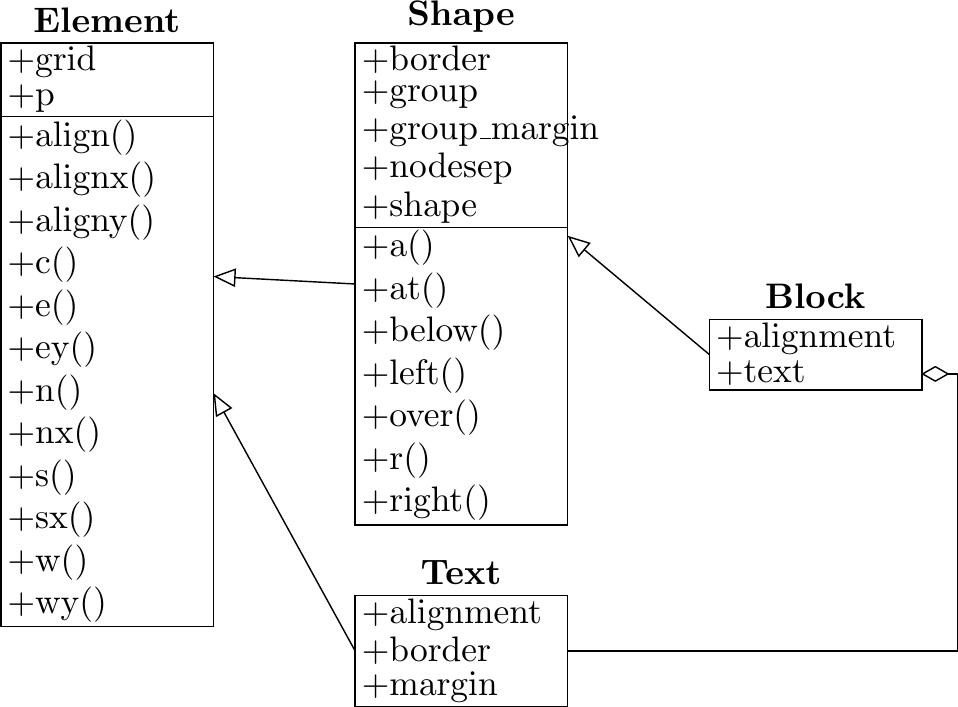
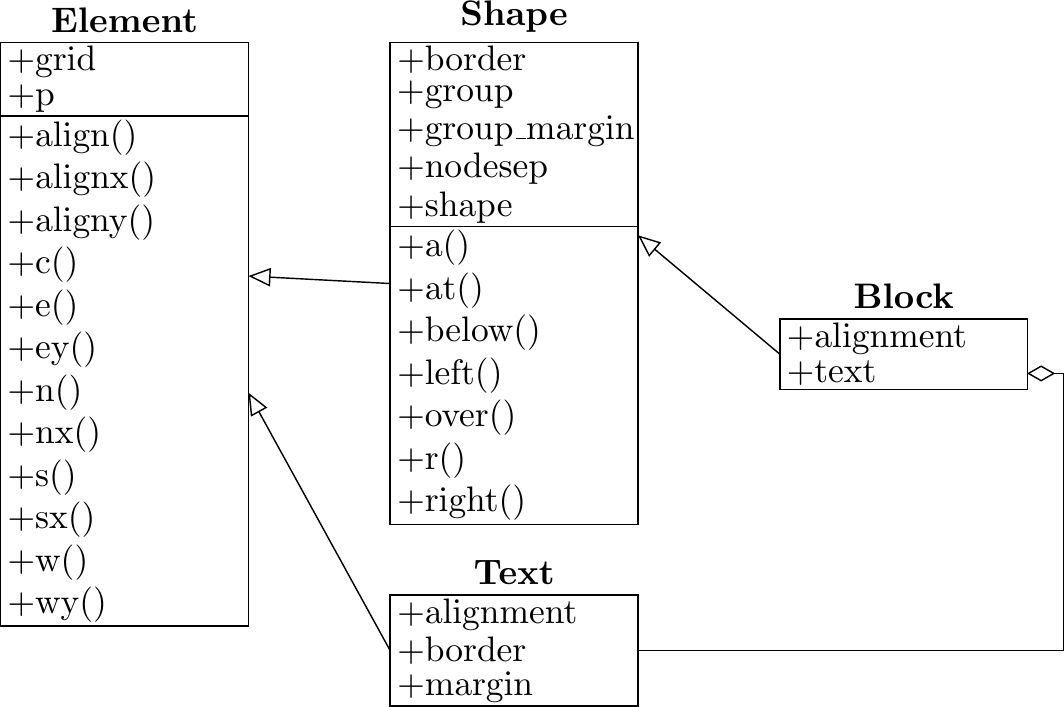
Worked on documentation

diff --git a/bdp/node.py b/bdp/node.py
@@ -38,7 +38,7 @@ test = r"""
 
 class Figure(object):
     grid    = 10
-    origin  = p(1000, 1000)
+    origin  = p(0, 0)
     package = ['tikz']
     tikz_library = set(['shapes', 'arrows', 'decorations.pathreplacing', 'decorations.markings', 'arrows.meta'])
     options = 'yscale=-1, every node/.style={inner sep=0,outer sep=0, anchor=center}'
@@ -100,7 +100,7 @@ $tikz_epilog
 #     """
     
     def to_units(self,num):
-        return "{0}{1}".format(num*self.grid, "pt")
+        return "{0:.2f}{1}".format(num*self.grid, "pt")
     
     def from_units(self, s):
         s = s.replace('pt', '')
@@ -811,7 +811,7 @@ class Shape(Element):
         if self.shape == 'circle':
             r = self.size[0]/2
             x = pos[0] - self.p[0]
-            y = r - math.sqrt(2*r*x - x*x) + self.p[1]
+            y = r - math.sqrt(abs(2*r*x - x*x)) + self.p[1]
             pos[1] = y
 
         return pos
@@ -822,7 +822,7 @@ class Shape(Element):
         if self.shape == 'circle':
             r = self.size[0]/2
             y = pos[1] - self.p[1]
-            x = self.size[0] - (r - math.sqrt(2*r*y - y*y)) + self.p[0]
+            x = self.size[0] - (r - math.sqrt(abs(2*r*y - y*y))) + self.p[0]
             pos[0] = x
 
         return pos
@@ -833,7 +833,7 @@ class Shape(Element):
         if self.shape == 'circle':
             r = self.size[0]/2
             x = pos[0] - self.p[0]
-            y = self.size[1] - (r - math.sqrt(2*r*x - x*x)) + self.p[1]
+            y = self.size[1] - (r - math.sqrt(abs(2*r*x - x*x))) + self.p[1]
             pos[1] = y
 
         return pos
@@ -844,38 +844,38 @@ class Shape(Element):
         if self.shape == 'circle':
             r = self.size[0]/2
             y = pos[1] - self.p[1]
-            x = r - math.sqrt(2*r*y - y*y) + self.p[0]
+            x = r - math.sqrt(abs(2*r*y - y*y)) + self.p[0]
             pos[0] = x
 
         return pos
 
 
-    def over(self, shape=None, pos=1):
+    def over(self, other=None, pos=1):
         if shape is None:
-            shape = self
+            other = self
             
-        self.p = shape.p - (0, self.size[1] + pos*shape.nodesep[1])
+        self.p = other.p - (0, self.size[1] + pos*other.nodesep[1])
         return self
 
-    def right(self, shape=None, pos=1):
+    def right(self, other=None, pos=1):
         if shape is None:
-            shape = self
+            other = self
             
-        self.p = shape.p + (shape.size[0] + pos*shape.nodesep[0], 0)
+        self.p = other.p + (other.size[0] + pos*other.nodesep[0], 0)
         return self
 
-    def left(self, shape=None, pos=1):
+    def left(self, other=None, pos=1):
         if shape is None:
-            shape = self
+            other = self
             
-        self.p = shape.p - (self.size[0] + pos*shape.nodesep[0], 0)
+        self.p = other.p - (self.size[0] + pos*other.nodesep[0], 0)
         return self
 
-    def below(self, shape=None, pos=1):
+    def below(self, other=None, pos=1):
         if shape is None:
-            shape = self
+            other = self
             
-        self.p = shape.p + (0, shape.size[1] + pos*shape.nodesep[1])
+        self.p = other.p + (0, other.size[1] + pos*other.nodesep[1])
         return self
 
 from os import kill
@@ -1226,9 +1226,6 @@ class ArrowCap(Instance):
     
     _tikz_len_measures = Instance._tikz_len_measures + ['length', 'width']
     
-    def _render_tikz_color(self, fig=None):
-        return self.color
-
 cap = ArrowCap()
 
 class Segment(object):
@@ -1336,9 +1333,6 @@ class Path(TikzMeta):
             return ' '.join(["\\path ", options, path, ";\n"])
         else:
             return ' '.join(["\\draw ", options, 'plot [smooth]', 'coordinates {', path, "};\n"])
-
-    def _render_tikz_color(self, fig=None):
-        return self.color
 
     def _render_tikz(self, fig=None):
         tex = self._render_tikz_run(fig)

diff --git a/doc/source/images/uml.py b/doc/source/images/uml.py
@@ -19,7 +19,7 @@ def uml_for_obj(obj, parent=object):
     
     # populate BDP blocks
     uml = block(r'\textbf{' + obj.__class__.__name__ + '}', alignment='tc', border=False, group='tight')
-    field = block(size=(6,None), alignment='cw', border=False, text_margin=(0.2,0.1))
+    field = block(size=(7,None), alignment='cw', border=False, text_margin=(0.2,0.1))
 
     uml['attrs'] = block(group='tight').align(uml.n())
     fill_group(uml['attrs'], attrs, field)

diff --git a/doc/source/images/example1.py b/doc/source/images/example1.py
@@ -1,8 +1,9 @@
 from bdp import *
 
-# New template called template1 derived from block
-template1 = block(text_t='A Block')
-template1.color = 'red'
+# New template called a_template derived from block with text_t attribute set
+a_template = block(text_t='A Block')
+# Set the color attribute
+a_template.color = 'red'
 
-# Render template1
-fig << template1
+# Render a_template
+fig << a_template

diff --git a/setup.py b/setup.py
@@ -8,7 +8,7 @@ This package contains the bdpfigure Sphinx extension.
 .. add description here ..
 '''
 
-requires = []
+requires = ['pexpect']
 
 setup(
     name='bdp',

diff --git a/doc/source/tutorial.rst b/doc/source/tutorial.rst
@@ -4,7 +4,14 @@
 BDP short tutorial
 ==================
 
-Block diagrams consist mainly of blocks connected by lines, hence minly two BDP objects will be used for drawing called *block* and *path*. All drawing objects in BDP are called **templates**. Templates carry descriptions of diagram components in form of many attributes which can be accessed, modified or added as a regular Python object attributes. New templates can be derived from the existing ones by calling them with a list of attributes that are be changed. Finally, the templates can be rendered to the diagram by passint them to the *fig* object:
+Block diagrams consist mainly of blocks connected by lines, hence minly two BDP objects will be used for drawing called *block* and *path*. All drawing objects in BDP are called **templates**. Templates carry descriptions of diagram components in form of many attributes which can be accessed, modified or added as a regular Python object attributes. New templates can be derived from the existing ones by calling them with a list of attributes that are be changed. Finally, the templates can be rendered to the diagram by passing them to the *fig* object.
+
+All examples shown in this tutorial can be found in the bdp/doc/source/images folder of the bdp source code.
+
+A simple block
+--------------
+
+The following examples shows how to render a simple block with the text using BDP.
 
 .. literalinclude:: images/example1.py
 
@@ -12,4 +19,95 @@ Resulting in:
 
 .. figure:: images/example1.png
 
-Lets start with a simple example
+The *block* and templates derived from it, render to two *node* TikZ elements, one for the shape and the other for the text. Many *block* template attributes are rendered directly to the options list of a TikZ *node* with the following convention:
+
+.. list-table::
+   :widths: 17 22 30
+   :header-rows: 1
+   
+   * - *node* option form
+     - Corresponding BDP template setting
+     - Description
+   * - option=value
+     - template.option = value
+     - Set the desired value to the template attribute with the same name as the desired *node* option
+   * - option
+     - template.option = True
+     - Set value of the template attribute of the same name as the desired *node* option to the boolean True. To unset the option, set it to False.
+   * - option with spaces
+     - template.option_with_spaces
+     - TikZ option with spaces correspond to the template attribute of the same name with spaces replaced by underscores '_'
+
+Some template attributes, however do not translate directly to the TikZ equivalents, and some of them are inferred in certain situations. These attributes include:
+
+.. list-table::
+   :widths: 10 20 20
+   :header-rows: 1
+   
+   * - Attribute
+     - TikZ equivalent option
+     - Description
+   * - p
+     - at (p[0], p[1])
+     - Determines the absolute position of the rendered node
+   * - size
+     - minimum width=size[0], minimum height=size[1]
+     - Determines the size of the rendered node
+   * - alignment
+     - --
+     - Determines the relative position of the text within a block
+   * - border
+     - draw
+     - Determines whether the block template border is drawn
+    
+
+Template *a_template* is rendered to the following two TikZ elements by the rules given above:
+
+.. code-block:: latex
+
+   \node at (20.71pt, 6.47pt) [draw,minimum width=41.42pt,minimum height=12.94pt,color=red,rectangle] {} ;
+   \node at (20.71pt, 6.47pt) [align=center,text width=35.42pt,minimum width=41.42pt,minimum height=12.94pt] {A Block} ;
+   
+Block relative position
+-----------------------
+
+Next example shows how BDP faciliates the relative positioning of the blocks in diagram.
+
+.. literalinclude:: images/example2.py
+
+Resulting in:
+
+.. figure:: images/example2.png
+
+There are several helper methods used to position the blocks relatively to one another in diagram. The methods *over*, *right*, *left* and *below* all have the same form::
+
+   template.method(other, pos=1)
+   
+These methods will position the *template* over, below, to the right or left of the passed *other* template. The *nodesep* attribute of the *other* template determines the spacing that should be made between the templates. The *nodesep* attibute value is multiplied by the passed *pos* argument.
+
+The method *align* can be used to position two templates in such a way that their points (*other* and *own*) passed as arguments to this method, become overlapped::
+   
+   template.align(other, own)
+
+The point relative to the template can be specified using helper methods: *e*, *n*, *s* and *w*
+   
+.. list-table::
+   :header-rows: 1
+   
+   * - Method
+     - Description
+   * - n
+     - Coordinate system with origin in top-left point of the template, with x as primary coordinate
+   * - w
+     - Coordinate system with origin in top-right point of the template, with y as primary coordinate
+   * - s
+     - Coordinate system with origin in bottom-left point of the template, with x as primary coordinate
+   * - e
+     - Coordinate system with origin in top-left point of the template, with y as primary coordinate
+
+When an **int** value is supplied to these methods as a parameter, the value will be interpreted as an absolute unit. However, when a **float** value is supplied, it will be interpreted as a fraction of template's size. The following example shows how these methods can be used to determine the points relative to the template.
+
+.. figure:: images/pos_example.png
+
+The function *prev* of the BDP package can be used to access the last template that has been derived in the script.
+

diff --git a/README.rst b/README.rst
@@ -1,12 +1,81 @@
-Prerequisites
-=============
 
-The following executables are used for render Pdf documents:
+Welcome to BDP
+==============
 
-* ``pdflatex``
+BDP (Block Diagrams in Python) aims to become a Python fronted for `TikZ <http://www.texample.net/tikz/>`_ when it comes to drawing block diagrams in order to facilitate the process. BDP wraps the `TikZ <http://www.texample.net/tikz/>`_ statements into the Python objects so that users can describe diagrams in pure Python. However, inserting raw `TikZ <http://www.texample.net/tikz/>`_ in BDP is also possible. Figure below shows an BDP example image which represents the BDP compilation process.
 
-On a Debian_ or a `Debian-derived`_ system, they could be installed
-with::
+.. _fig-bdp-toolchain:
 
-    # apt-get install texlive
+.. figure:: doc/source/images/compile_process.png
+    :width: 60%
 
+    BDP example: BDP compilation process
+
+Figure can be rendered with the following Python code:
+
+.. literalinclude:: doc/source/images/compile_process.py
+    :caption: BDP description of the compilation process diagram.
+
+Why BDP?
+--------
+
+BDP brings following benefits:
+
+- Diagram description in Python which should render it more readable
+- Step-by-step debugging of the diagram description
+- Use the tools and design environments available for Python development (debugging, code completion, refactoring, documentation utilities...)
+- Use vast Python library of packages
+
+BDP features
+------------
+
+BDP package comprises:
+
+- Python classes that wrap the Tikz statements
+- Class for rendering PDF and PNG images from the Python description
+- Shell entry point for rendering BDP images from command line
+- Sphinx extensions for embedding BDP images into the Sphinx documents
+
+.. _fig-uml:
+
+.. figure:: doc/source/images/uml.png
+    :width: 70%
+
+    More complex example with Python programming involved
+
+Where to start?
+===============
+
+Installation
+------------
+
+BDP requires TeX Live, which could be installed on a Debian or a Debian-derived systems, with::
+
+    # sudo apt-get install texlive
+
+Install BDP using pip::
+
+    pip install bdp
+
+Install BDP using easy_install::
+
+    easy_install bdp
+
+Install BDP from source::
+
+    python setup.py install
+
+Read the documentation
+----------------------
+
+Read the `BDP documentation <http://bdp.readthedocs.org/en/latest/>`_
+
+Checkout the examples
+---------------------
+
+Examples are located in the `<https://github.com/bogdanvuk/bdp/tree/master/doc/source/images>`_ repository folder.
+
+Get involved
+------------
+
+Pull your copy from `github repository <https://github.com/bogdanvuk/bdp>`_

diff --git a/doc/source/index.rst b/doc/source/index.rst
@@ -49,15 +49,15 @@ Where to start?
 Installation
 ------------
 
-Install SyDPy using pip::
+Install BDP using pip::
     
-    pip install sydpy
+    pip install bdp
 
-Install SyDPy using easy_install::
+Install BDP using easy_install::
     
-    easy_install sydpy
+    easy_install bdp
 
-Install SyDPy from source::
+Install BDP from source::
     
     python setup.py install
 
@@ -69,7 +69,7 @@ Start with the short tutorial :ref:`tutorial`
 Checkout the examples
 ---------------------
 
-Examples are located in the `examples <https://github.com/bogdanvuk/sydpy/tree/master/examples>`_ repository folder.
+Examples are located in the `examples <https://github.com/bogdanvuk/bdp/tree/master/examples>`_ repository folder.
 
 Get involved
 ------------
